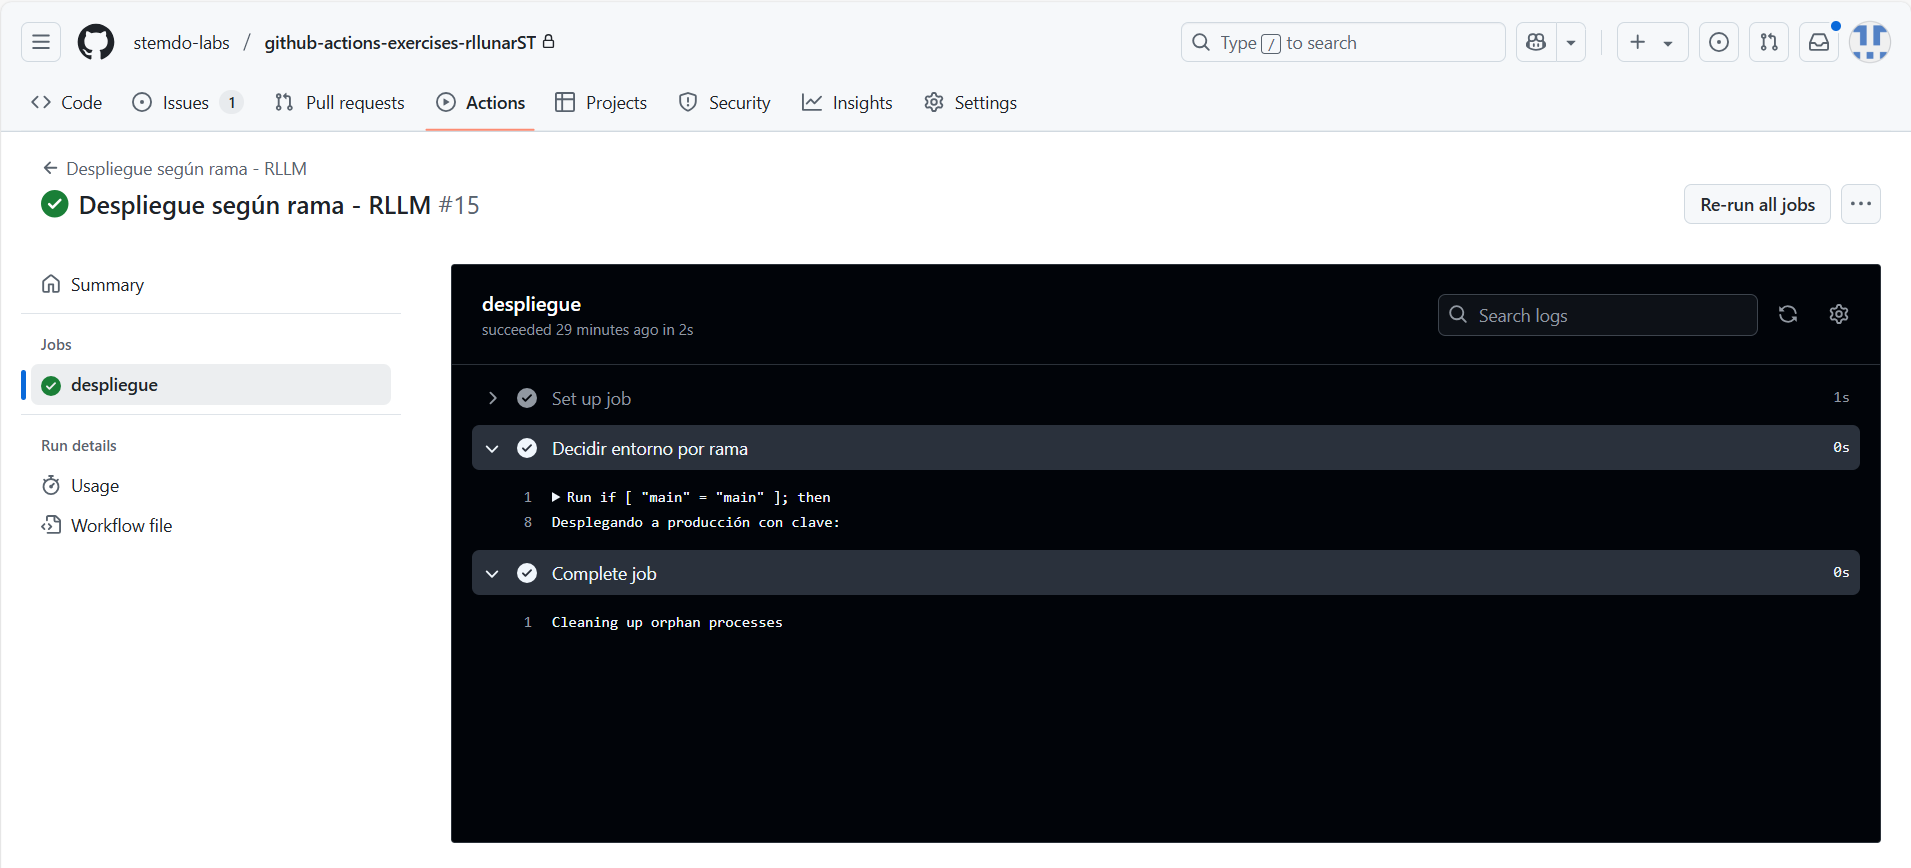
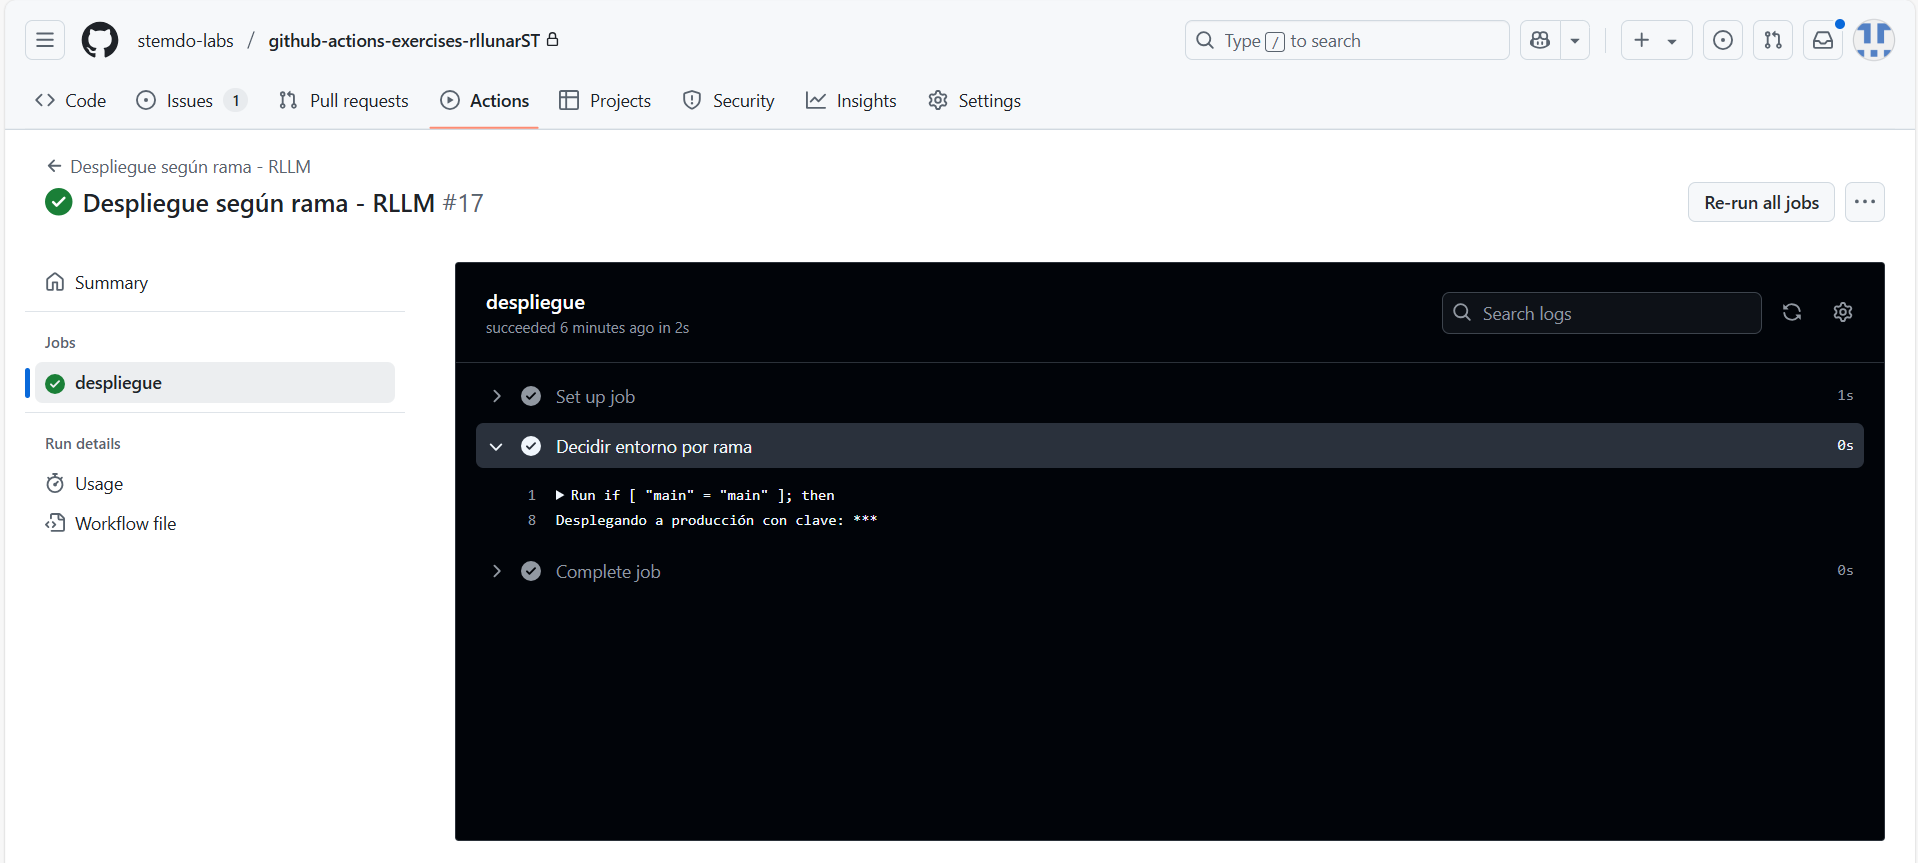
correcciones y variables 1 finalizado

diff --git a/soluciones/contexts/ejercicio2.md b/soluciones/contexts/ejercicio2.md
@@ -20,7 +20,11 @@ jobs:
     runs-on: ubuntu-latest
 
     steps:
+      - name: Checkout del repositorio
+        uses: actions/checkout@v4
+
       - name: Decidir entorno por rama
+        shell: bash
         run: |
           if [ "${{ github.ref_name }}" = "main" ]; then
             echo "Desplegando a producción con clave: ${{ secrets.PROD_API_KEY }}"
@@ -29,13 +33,20 @@ jobs:
           fi
 ```
 
-Como podemos ver en el código, se utiliza el contexto `github.ref_name` para comprobar en que rama se ejecuta esteworkflow, si la rama es main se muestra el mensaje de producción, si no se muestra el mensaje de staging. Como podemos ver en la siguiente captura:
+Como podemos ver en el código, se utiliza el contexto `github.ref_name` para comprobar en que rama se ejecuta esteworkflow, si la rama es main se muestra el mensaje de producción, si no se muestra el mensaje de staging.
+
+Para poder realizar el ejercicio, se deben utilizar los secretos `PROD_API_KEY` y `STAGING_API_KEY` que se deben crear en la sección de secretos del repositorio. En mi caso me toca crearlos, a continuación muestro los secretos ya creados:
+
+![Secretos creados](../../datos/imgs/context2_0.png)
+
+Ahora si ejecutamos el workflow podemos ver el siguiente resultado:
 
 ### Resultado para la rama 'main'
 
 ![Resultado en rama main](../../datos/imgs/context2_1.png)
+![alt text](image-1.png)
 
-Como podemos ver el mensaje de producción se muestra correctamente, pero el secreto no se muestra ya que este es un secreto y los secretos no se n mostrar por consola al ejecutar el workflow.
+Como podemos ver el mensaje de producción se muestra correctamente, pero el secreto no se muestra ya que este es un secreto y los secretos no se pueden mostrar por consola al ejecutar el workflow.
 
 ### Resultado para la rama 'soluciones-rllm'
 

diff --git a/soluciones/variables/ejercicio1.md b/soluciones/variables/ejercicio1.md
@@ -19,18 +19,16 @@ jobs:
 
     steps:
       - name: Definiendo variables de entorno
-        run: echo "Variables definidas"
-        env:
-          NOMBRE: "Roy Lee"
-          CURSO: "GitHub Actions por Stemdo"
+        shell: bash
+        run: echo "NOMBRE=Roy" >> $GITHUB_ENV
+        run: echo "CURSO=GitHub Actions por Stemdo" >> $GITHUB_ENV
 
       - name: Usando las variables de entorno
         run: |
-          echo "Hola, me llamo ${{ NOMBRE }} y estoy aprendiendo ${{ CURSO }}"
-        env:
-          NOMBRE: Roy
-          CURSO: GitHub Actions
+          echo "Hola, me llamo $NOMBRE y estoy aprendiendo $CURSO"
 ```
 
-Si ahora ejecutamos el workflow, veremos que se ejecuta correctamente y nos devuelve el siguiente resultado:
+Como podemos ver con un echo definimos las variables de entorno y luego las usamos en el segundo step. En este caso, el comando `echo` imprime un saludo que incluye el nombre y el curso. El resultado de la ejecución del workflow es el siguiente:
+
+
 
